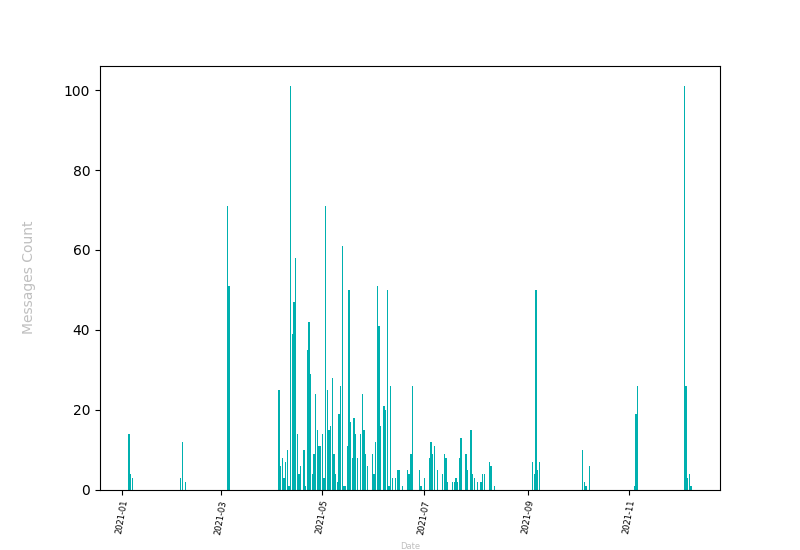
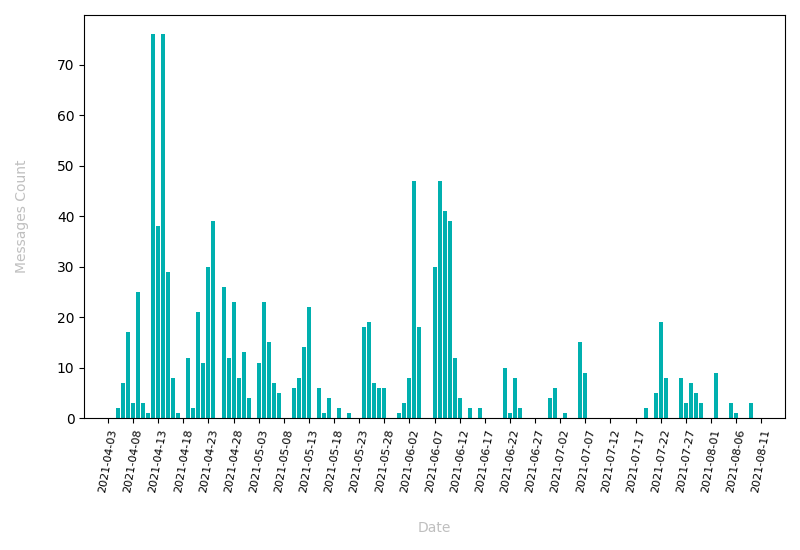
fix: fixed the spacing on graph

diff --git a/analyser/chat/Chart.py b/analyser/chat/Chart.py
@@ -2,6 +2,7 @@ from turtle import color
 import matplotlib.pyplot as plt
 from datetime import datetime
 
+from matplotlib.ticker import MaxNLocator
 from numpy import average
 from analyser.models import MessageLog
 from analyser.chat.MessageHistory import MessageHistory
@@ -50,16 +51,22 @@ class Chart:
 
         # plt.title('Active Days', fontsize=48, fontweight='bold')
 
-        plt.xlabel('Date',fontsize=6, color="#bfbfbf", labelpad=5)
+        plt.xlabel('Date', color="#bfbfbf", labelpad=20)
         plt.ylabel('Messages Count', fontsize=10,color="#bfbfbf", labelpad=20)      
 
         dates = data['dates']
         dates = [datetime.strptime(date, '%Y-%m-%d') for date in dates]
-
+ 
         messages = data['messages']
 
         plt.bar(dates, messages, color='#00b0af')
-        plt.xticks(rotation=80, fontsize=6)
+        plt.xticks(rotation=80, fontsize=8)
+
+        # Automatically set the number of x-axis ticks for better spacing
+        plt.gca().xaxis.set_major_locator(MaxNLocator(integer=True, nbins=34))
+
+        # Automatically adjust the layout for better spacing
+        plt.tight_layout()
 
         plt.savefig("analyser/templates/jinja2/pdf_templates/active_days.png")
         plt.clf()
@@ -156,12 +163,13 @@ class Chart:
             else:
                 col.append('red')
 
+        plt.bar(range(emotions_len), emotions_list,color = col)
 
-       
-        plt.bar(range(len(emotions)), emotions_list,color = col)
+        labels = [word.capitalize() for word in list(emotions.keys())]
+        plt.xticks(range(emotions_len), labels)
+        plt.xticks(rotation=80)
 
-        plt.xticks(range(len(emotions)), list(emotions.keys()))
-        plt.xticks(rotation=90)
+        plt.tight_layout()
 
         plt.savefig("analyser/templates/jinja2/pdf_templates/emotions.png")
         plt.close('all')
@@ -190,6 +198,8 @@ class Chart:
 
         # plt.bar(range(len(sentiment)), list(sentiment.values()))
         plt.xticks(range(len(sentiment)), list(sentiment.keys()))
+       
+        plt.tight_layout()
 
         plt.savefig("analyser/templates/jinja2/pdf_templates/sentiment.png")
         plt.close('all')

diff --git a/entry.py b/entry.py
@@ -16,14 +16,14 @@ from analyser.chat.Chart import Chart
 from analyser.analyser import Analyser
 import traceback
 
-ReadEmails.processEmail()
+# ReadEmails.processEmail()
 
-# analyser = Analyser()
+analyser = Analyser()
 
-# whatsap_file_id = 462
-# item = WhatsAppChatFile.objects.values("id", "google_id", "title", "group_id").get(
-#     id=whatsap_file_id
-# )
+whatsap_file_id = 498
+item = WhatsAppChatFile.objects.values("id", "google_id", "title", "group_id").get(
+    id=whatsap_file_id
+)
 
 """
 Process all pending chats
@@ -49,5 +49,24 @@ Process a certain pending chat
 #     print(f"Error processing chat here {item}")
 #     traceback.print_exc()
 
+# 
+Chart.wordCloud(whatsap_file_id)
+# Chart.activeDaysChart(whatsap_file_id)
 
-# Chart.wordCloud(whatsap_file_id)
+def debugDates(group_id):
+
+    params = {}
+    params["stats"] = analyser.fetch_group_meta(group_id, None)
+
+    activeDaysChart = {
+        "dates": params["stats"]["active_dates"]["dates"],
+        "messages": params["stats"]["active_dates"]["messages"],
+    }
+
+    Chart.activeDaysChart(activeDaysChart)
+
+group_id = 15
+debugDates(group_id)
+
+Chart.emotionsGraph(group_id)
+Chart.sentimentGraph(group_id)

diff --git a/analyser/chat/ChatEmailReader.py b/analyser/chat/ChatEmailReader.py
@@ -47,7 +47,7 @@ class ChatEmailReader:
         message_ids = message_ids.split()
 
         # TODO: Delete this (for testing)
-        message_ids = [399]
+        # message_ids = [399]
 
         for i in message_ids:
             # fetch the email message by ID
